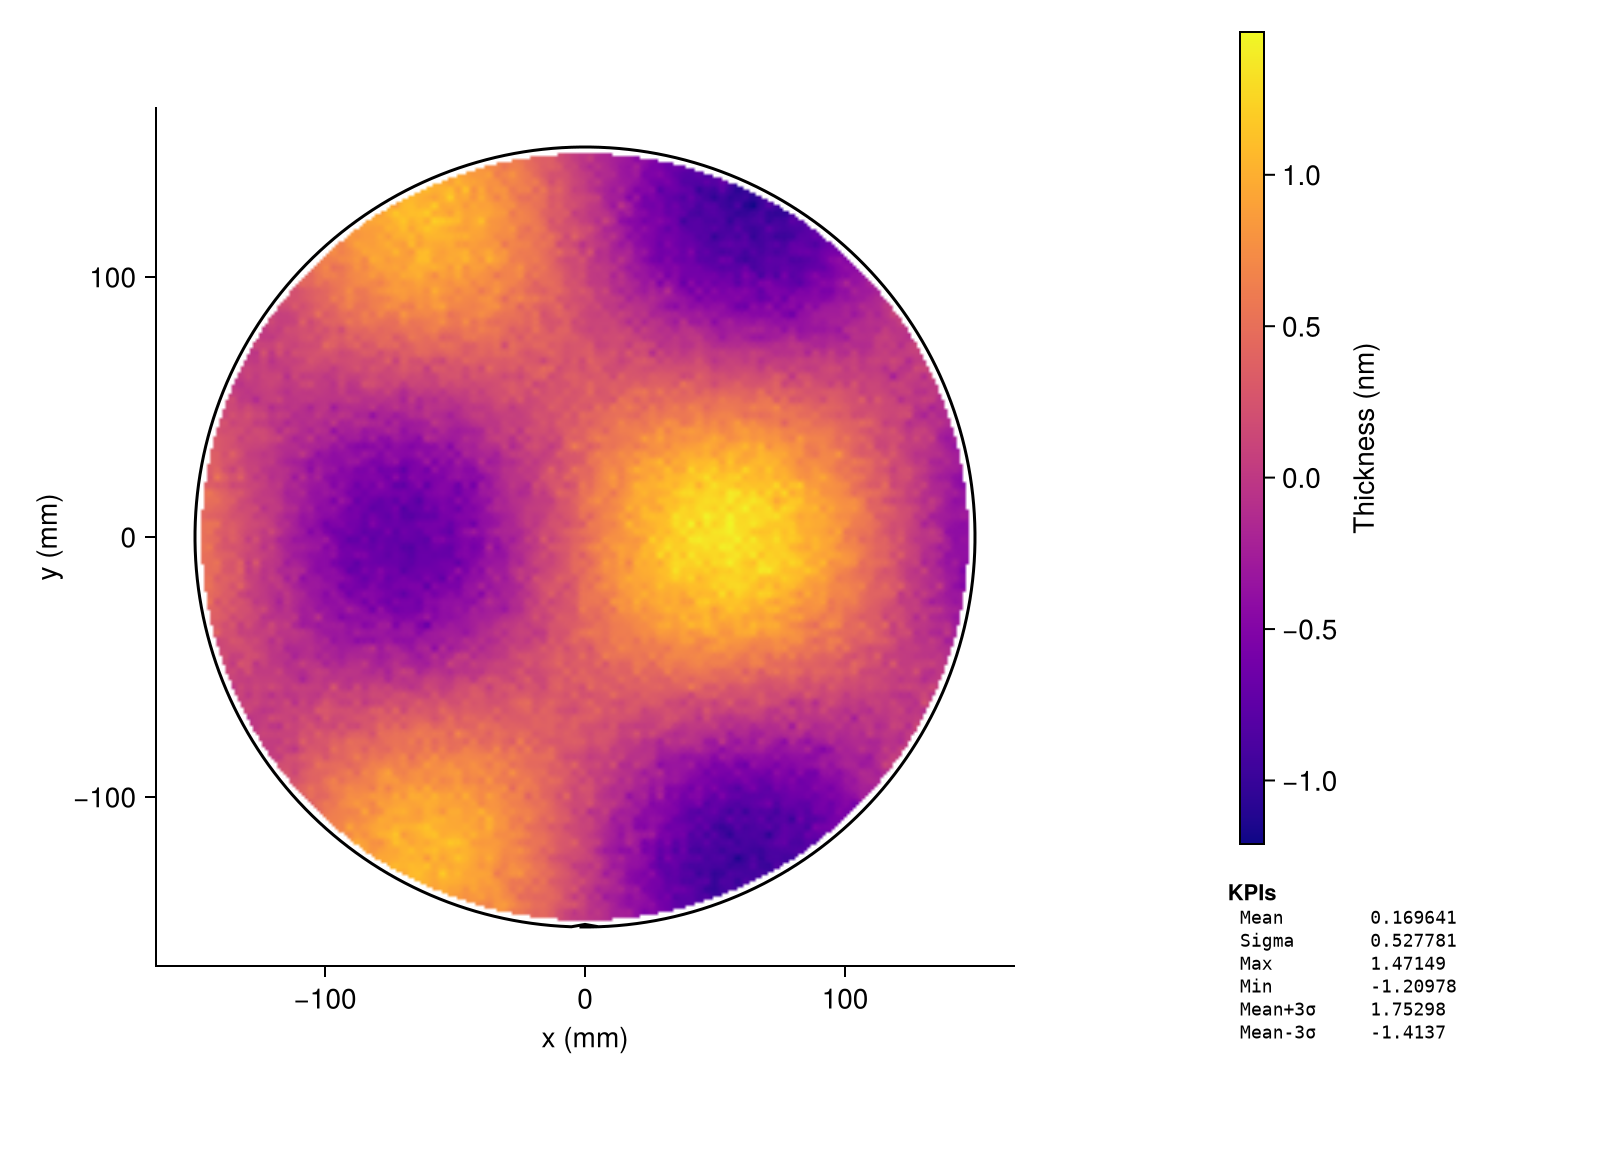
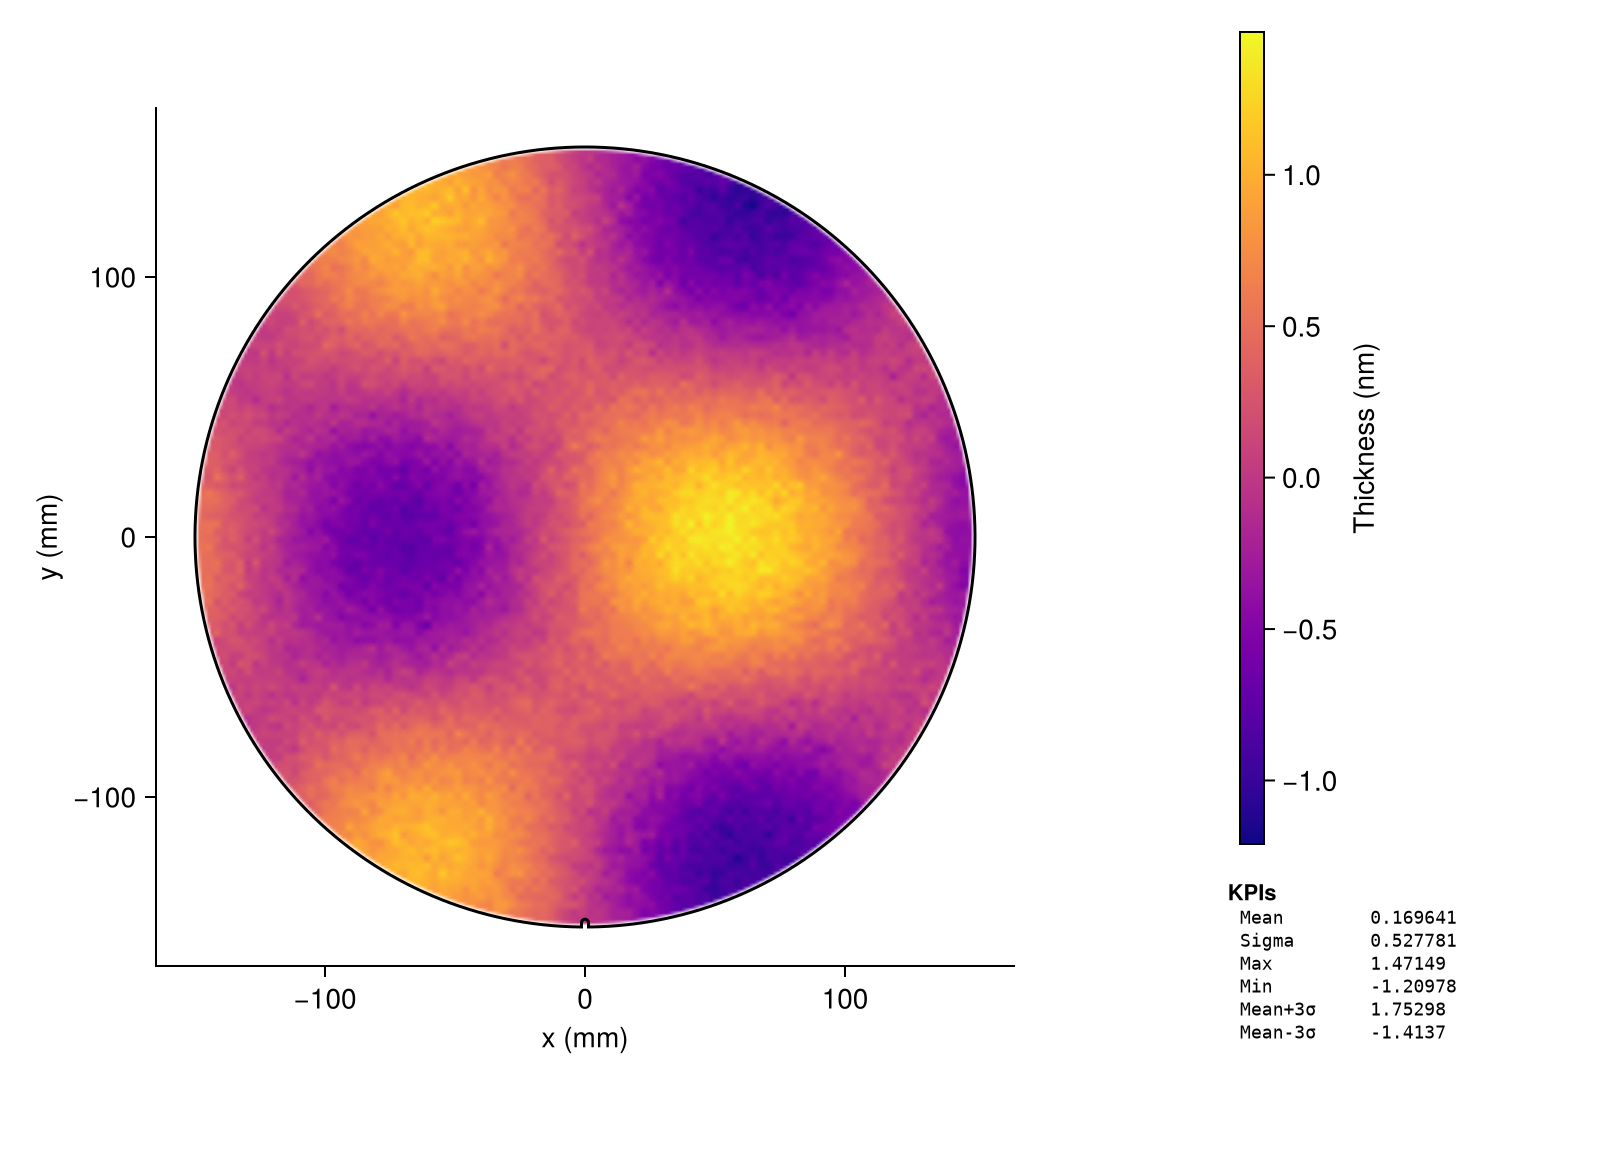
Thinner, gray field outlines by default
Exposure-field outlines default to (:gray30, 0.5) at width 0.6 (was
:steelblue at 0.8), so they frame the data without competing with it.
The style lives in FIELD_STROKECOLOR / FIELD_STROKEWIDTH, shared by
draw_fields! and every recipe's field_strokecolor/field_strokewidth.

Gallery, README, and generate_examples.jl no longer override the
field outline style. The static images are regenerated; besides the
field overlay, they now also show the current wafer-edge rendering
and notch.

Claude-Session: https://claude.ai/code/session_01VpVwMNc1VkHrRCtZ8FxtyC

diff --git a/docs/src/gallery.md b/docs/src/gallery.md
@@ -126,9 +126,7 @@ x = first.(pts); y = last.(pts)
 v = @. sin(x / 40) * cos(y / 40) + 0.08 * $(randn(length(x)))
 data = WaferData(x, y, v; fields)
 
-wafer_figure(data; label = "Thickness (nm)", colormap = :plasma,
-    field_color = (:black, 0.0),
-    field_strokecolor = :black, field_strokewidth = 1.8f0)
+wafer_figure(data; label = "Thickness (nm)", colormap = :plasma, field_color = (:black, 0.0))
 ```
 
 ---
@@ -395,8 +393,7 @@ data = WaferData((x = first.(dies), y = last.(dies),
                   value = [yieldval(d...) for d in dies]); fields)
 
 fig, ax, p = wafer_figure(data; label = "Yield", markersize = 14.0f0, colormap = :RdYlGn,
-    field_color = (:black, 0.0),
-    field_strokecolor = :gray50, field_strokewidth = 0.7f0)
+    field_color = (:black, 0.0))
 add_exclusion_ring!(ax, wafer; mm_to_edge = 2.0, label = "2 mm EE",
                     color = :black, linestyle = :dash, dim_outside = true, dim_alpha = 0.4)
 add_ring_legend!(ax; position = :lb)

diff --git a/README.md b/README.md
@@ -68,7 +68,7 @@ centers = [((ci - 0.5) * 26.0, (ri - 5) * 33.0) for ri in 1:9, ci in -5:6]
 fields = field_grid(centers, (26.0, 33.0); wafer = WaferSpec())   # drops fields off the wafer
 
 data = WaferData(table; fields)
-p = waferheatmap!(ax, data; field_strokecolor=:black, field_strokewidth=1.5f0)
+p = waferheatmap!(ax, data)
 ```
 
 ## Custom KPIs
